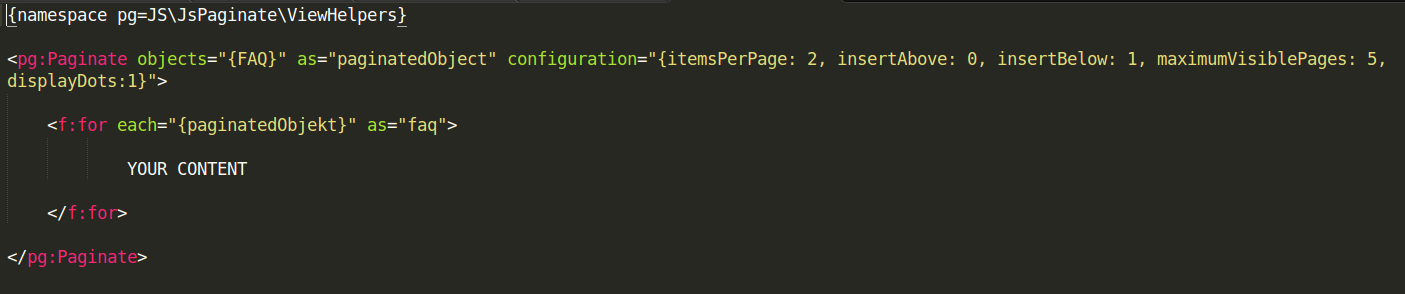
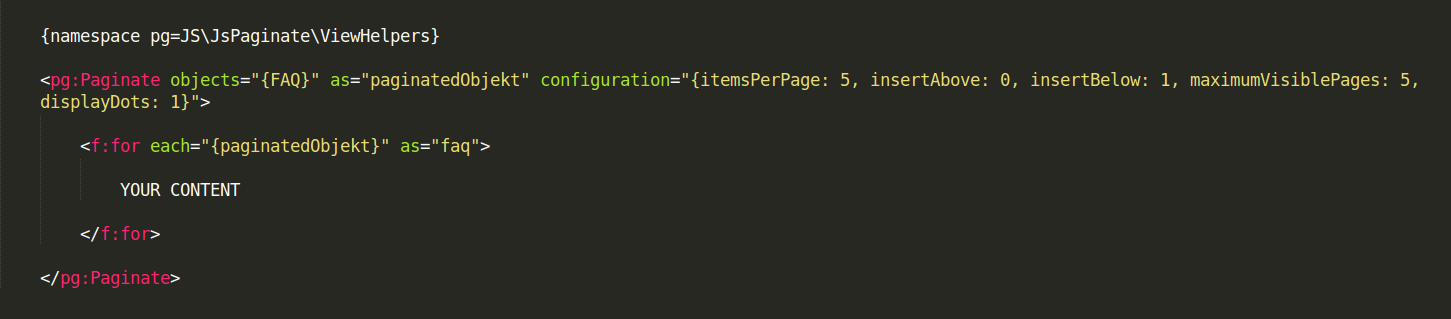
Update manual

diff --git a/ext_emconf.php b/ext_emconf.php
@@ -21,7 +21,7 @@ $EM_CONF[$_EXTKEY] = array(
 	'uploadfolder' => '0',
 	'createDirs' => '',
 	'clearCacheOnLoad' => 0,
-	'version' => '2.0.5',
+	'version' => '2.0.6',
 	'constraints' => array(
 		'depends' => array(
 			'typo3' => '6.0.0 - 8.9.99',

diff --git a/Documentation/User/Index.rst b/Documentation/User/Index.rst
@@ -20,22 +20,45 @@ Here should be described how to use the extension from the editor perspective.
    Simple pagination configuration your plugin.
 
 
-.. First need to add pagination viewhelper in your file.::
+.. First need to add pagination viewhelper in your file. ::
 
    {namespace pg=JS\JsPaginate\ViewHelpers}
 
 
-   <pg:Paginate objects="{FAQ}" as="paginatedObjekt" configuration="{itemsPerPage: 10, insertAbove: 0, insertBelow: 1, maximumNumberOfLinks: 4, maximumVisiblePages: 3}">
 
-      <f:for each="{paginatedObjekt}" as="faq">
+configuration setting
+---------------------
+Following code need to use when data are in array form.::
 
-         YOUR CONTENT
+.. code-block:: html
 
-      </f:for>
+	{namespace pg=JS\JsPaginate\ViewHelpers}
+	
+	<pg:Paginate objects="{FAQ}" as="paginatedObjekt" configuration="{itemsPerPage: 5, insertAbove: 0, insertBelow: 1, maximumVisiblePages: 5, displayDots: 1}">
 
-   </pg:Paginate>   
+		<f:for each="{paginatedObjekt}" as="faq">
 
+			YOUR CONTENT
+
+		</f:for>
+
+	</pg:Paginate>
+
+
+	1) itemsPerPage = 5
+		5 records will display on first page
+
+	2) insertAbove = 1
+		if insertAbove is true then pagination will display before content 
+
+	3) insertBelow = 1
+		if insertAbove is true then pagination will display after content 
+
+	4) maximumVisiblePages = 5
+		Maximum Visible Pages 5 in pagination.
+
+	5) displayDots = 1
+		if displayDots is true then dot ( ... ) will be display between pagination after we reach more than maximum Visible Pages.
 
 .. figure:: ../Images/JSPaginate-Configuration.png
-   :alt: Pagination Configuration in extension.
-
+   :alt: Pagination Configuration in Extension.

diff --git a/Documentation/Introduction/Index.rst b/Documentation/Introduction/Index.rst
@@ -16,7 +16,7 @@ Pagination extension provides the pagination for all the custom extension record
 
 .. important::
 
-   Please don't forget include your static template (from extensions)
+   Please don't forget include your static template (from extensions). Otherwise layout will not work.
 
 
 .. _screenshots:

diff --git a/Documentation/Administrator/Index.rst b/Documentation/Administrator/Index.rst
@@ -33,7 +33,7 @@ To install the extension, perform the following steps:
 
 .. tip::
 
-   Pagination layout configuration
+   Pagination layout configuration for layout.
 
 
 .. figure:: ../Images/JSPaginate-Typoscript.png

diff --git a/Documentation/Configuration/Index.rst b/Documentation/Configuration/Index.rst
@@ -8,7 +8,7 @@
 
 .. _introduction:
 
-Introduction
+Configuration
 ============
 
 Pagination extension provides the pagination for all the custom extension records and as well bydefault extension like news.
